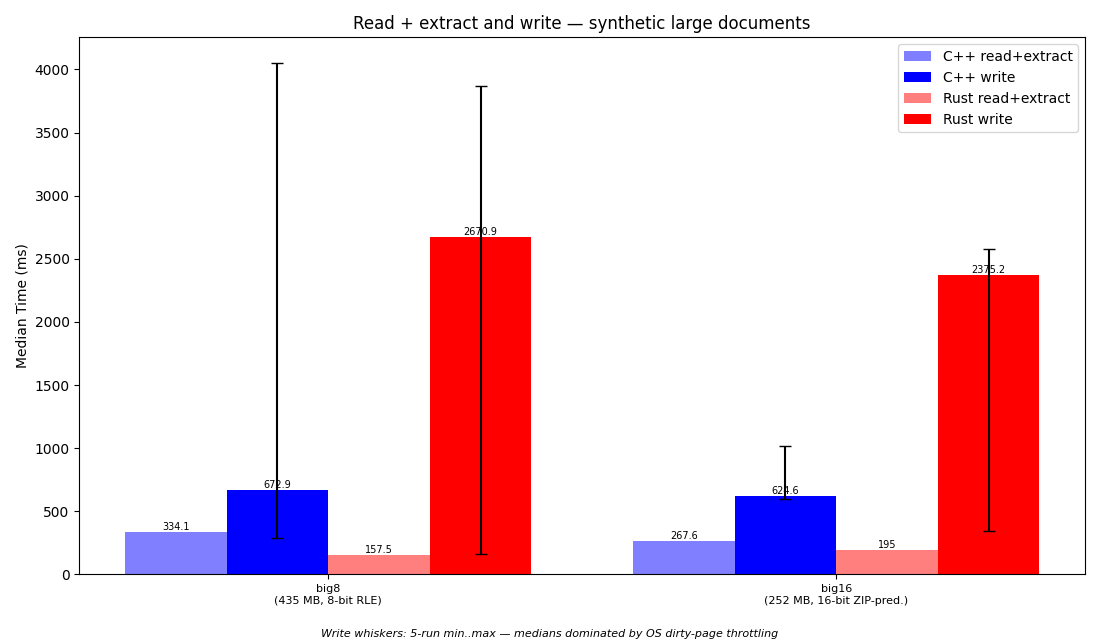
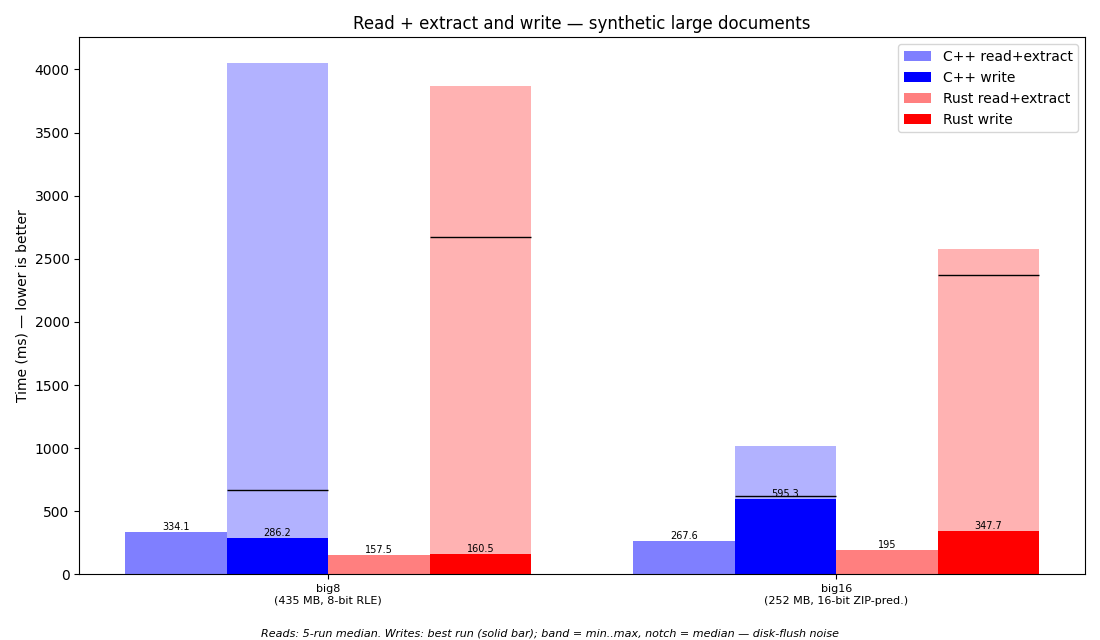
Convey write variance honestly in benchmark charts
Synthetic-document write medians are dominated by OS dirty-page
throttling, so the solid bar shows the best run (the codec's real
capability) with a translucent min..max band and a median notch on
top. Y-axis carries "lower is better"; footnotes explain the scheme.

Generated with [Devin](https://devin.ai)

diff --git a/docs/benchmarks/make_plots.py b/docs/benchmarks/make_plots.py
@@ -3,8 +3,9 @@ upstream doxygen images (docs/doxygen/images/benchmarks).
 
 Data: the medians published in README.md `## Performance` (measured from the
 `d1328e5` build — five runs per implementation and document, warm cache,
-alternating order). Synthetic-document writes carry a min..max whisker because
-OS dirty-page throttling dominated those runs.
+alternating order). Synthetic-document write bars show the best run as the
+solid bar (their medians are dominated by OS dirty-page throttling), with a
+shaded min..max band and a notch at the median.
 
 Usage: py make_plots.py            (writes PNGs next to this file)
 """
@@ -30,33 +31,46 @@ CPP_RE, CPP_W = "#7f7fff", "#0000ff"   # upstream's blue shades
 RS_RE, RS_W = "#ff7f7f", "#ff0000"     # and its red shades
 
 
+WRITE_BAR_NOTE = ("Reads: 5-run median. Writes: best run (solid bar); "
+                  "band = min..max, notch = median — disk-flush noise")
+
+
 def combined_plot(name, title, cpp_re, cpp_w, rs_re, rs_w, rng_cpp, rng_rs):
     labels = ["cpp_read+extract", "cpp_write", "rs_read+extract", "rs_write"]
-    vals = [cpp_re, cpp_w, rs_re, rs_w]
+    medians = [cpp_re, cpp_w, rs_re, rs_w]
     colors = [CPP_RE, CPP_W, RS_RE, RS_W]
+    heights = list(medians)
+    for i, rng in ((1, rng_cpp), (3, rng_rs)):
+        if rng:
+            heights[i] = rng[0]
     fig, ax = plt.subplots(figsize=(6.4, 6.4))
-    yerr = None
-    if rng_cpp or rng_rs:
-        lo = [0, cpp_w - rng_cpp[0], 0, rs_w - rng_rs[0]]
-        hi = [0, rng_cpp[1] - cpp_w, 0, rng_rs[1] - rs_w]
-        yerr = [lo, hi]
-    bars = ax.bar(labels, vals, color=colors, yerr=yerr, capsize=5)
-    for bar, v in zip(bars, vals):
+    bars = ax.bar(labels, heights, color=colors)
+    for i, rng in ((1, rng_cpp), (3, rng_rs)):
+        if rng:
+            ax.bar(i, rng[1] - rng[0], 0.8, bottom=rng[0], color=colors[i], alpha=0.3)
+            med = medians[i]
+            ax.plot([i - 0.4, i + 0.4], [med, med], color="black", lw=1.5,
+                    solid_capstyle="butt")
+            ax.text(i, med, f"median {med:g}", ha="center", va="bottom", fontsize=8)
+    for bar, v in zip(bars, heights):
         ax.text(bar.get_x() + bar.get_width() / 2, bar.get_height(),
                 f"{v:,.2f}", ha="center", va="bottom", fontsize=9)
     ax.set_title(title)
     ax.set_xlabel("Benchmark")
-    ax.set_ylabel("Median Time (ms)")
+    ax.set_ylabel("Time (ms) — lower is better")
     ax.tick_params(axis="x", labelsize=8)
-    fig.tight_layout()
+    if rng_cpp or rng_rs:
+        fig.text(0.5, 0.005, WRITE_BAR_NOTE, ha="center", fontsize=8, style="italic")
+    fig.tight_layout(rect=(0, 0.03, 1, 1))
     fig.savefig(name.replace(".psd", "").replace(".", "_") + "_combined_plot.png", dpi=100)
     plt.close(fig)
 
 
 def overview(title, groups, path, ranged=False):
     """Grouped chart: read+extract and write per implementation across files.
-    With `ranged`, write bars carry min..max whiskers (dirty-page throttle
-    dominated the synthetic-document write medians — see README)."""
+    With `ranged`, write bars show the best run as solid (dirty-page throttle
+    dominated the synthetic-document write medians — see README), plus a
+    shaded min..max band and a notch at the median."""
     import numpy as np
     names = list(groups)
     x = np.arange(len(names))
@@ -69,22 +83,23 @@ def overview(title, groups, path, ranged=False):
         (1.5 * w, 4, RS_W, "Rust write", 6),
     ]:
         vals = [groups[n][key] for n in names]
-        yerr = None
+        heights = vals
         if ranged and rng_idx:
-            lo = [max(v - groups[n][rng_idx][0], 0) for n, v in zip(names, vals)]
-            hi = [groups[n][rng_idx][1] - v for n, v in zip(names, vals)]
-            yerr = [lo, hi]
-        bars = ax.bar(x + offs, vals, w, color=color, label=label, yerr=yerr, capsize=4)
-        for bar, v in zip(bars, vals):
+            heights = [groups[n][rng_idx][0] for n in names]
+            for xi, n, med in zip(x + offs, names, vals):
+                mn, mx = groups[n][rng_idx]
+                ax.bar(xi, mx - mn, w, bottom=mn, color=color, alpha=0.3)
+                ax.plot([xi - w / 2, xi + w / 2], [med, med], color="black",
+                        lw=1, solid_capstyle="butt")
+        bars = ax.bar(x + offs, heights, w, color=color, label=label)
+        for bar, v in zip(bars, heights):
             ax.text(bar.get_x() + bar.get_width() / 2, bar.get_height(),
                     f"{v:g}", ha="center", va="bottom", fontsize=7)
     ax.set_xticks(x, [groups[n][0].replace(" (", "\n(") for n in names], fontsize=8)
-    ax.set_ylabel("Median Time (ms)")
+    ax.set_ylabel("Time (ms) — lower is better")
     ax.set_title(title)
     if ranged:
-        fig.text(0.5, 0.005,
-                 "Write whiskers: 5-run min..max — medians dominated by OS dirty-page throttling",
-                 ha="center", fontsize=8, style="italic")
+        fig.text(0.5, 0.005, WRITE_BAR_NOTE, ha="center", fontsize=8, style="italic")
     ax.legend()
     fig.tight_layout(rect=(0, 0.03, 1, 1))
     fig.savefig(path, dpi=100)
